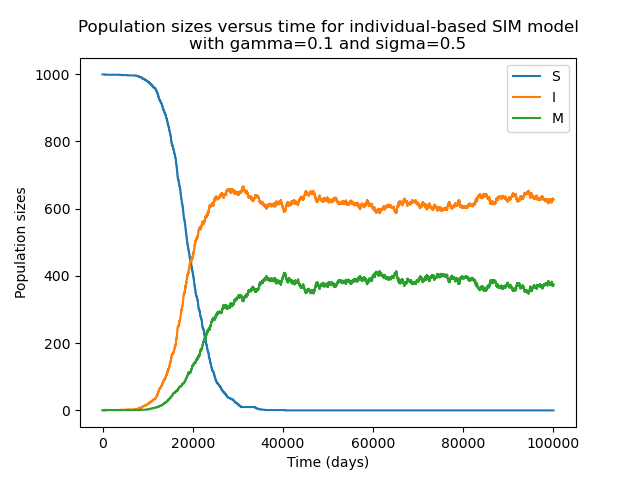
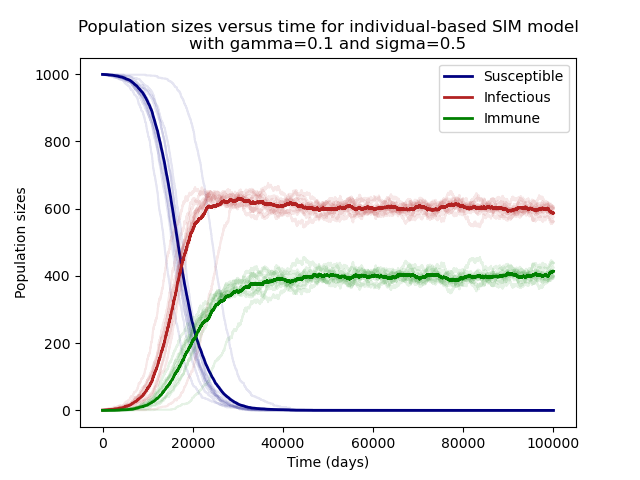
Modified to allow for repeated simulations

Changed region(s): [[0.1562, 0.125, 0.875, 0.875], [0.6875, 0.125, 0.875, 0.2812]]

diff --git a/individual_models/individual_simulations/individual_sim.py b/individual_models/individual_simulations/individual_sim.py
@@ -1,3 +1,4 @@
+import os
 import numpy as np
 import networkx as nx
 import matplotlib.pyplot as plt
@@ -10,7 +11,7 @@ immune = 'M'
 
 # Epidemiological Parameters
 gamma = 0.1
-sigma = 0
+sigma = 1
 
 
 ##### NETWORK INITIALISATION
@@ -123,7 +124,7 @@ def get_state_totals(G):
     return S_total, I_total, M_total
 
 
-def run_simulation(G, n_nodes, I0, sim_time, out_file_name):
+def run_simulation_iteration(G, n_nodes, I0, sim_time, out_file_name):
 
     # Creating a file to store the results to
     infection_outfile = open(out_file_name, 'w')
@@ -154,33 +155,117 @@ def run_simulation(G, n_nodes, I0, sim_time, out_file_name):
     infection_outfile.close()
 
 
+def repeat_simulation(N, I0, t_max, out_file_prefix, num_iterations=1):
+
+    # Repeating entire simulation required number of times
+    for n in range(num_iterations):
+
+        # Creating a new outfile name
+        current_file_name = out_file_prefix + '_%s.txt' % n
+
+        # Initialising the simulation
+        G = initialise_graph(n_nodes=N)
+        G = initialise_infections(G, n_nodes=N, n_infected=I0)
+
+        # Running the simulation
+        run_simulation_iteration(G, n_nodes=N, I0=I0, sim_time=t_max, out_file_name=current_file_name)
+
+
+##### ANALYSING AND DISPLAYING DATA
+
+def get_results_dataframe():
+
+    # Locating all data files within the directory
+    sim_data_files = [file for file in os.listdir(os.getcwd()) if file.startswith(out_file)]
+
+    # Creating a dataframe for each
+    dfs = [pd.read_csv(curr_file, delimiter=',', skiprows=1) for curr_file in sim_data_files]
+
+    # Looping through each dataframe
+    for counter, df in enumerate(dfs):
+
+        # Changing column names to match their origin file (i.e. 'column_name_number')
+        new_col_names = [df.columns[0]] + [col_name + '_%s' % counter for col_name in df.columns[1:]]
+        df.columns = new_col_names
+
+    # Creating a dataframe to store all resulting data in
+    results_df = pd.concat(dfs, axis=1)
+
+    # Only keeping the first timestep column
+    results_df = results_df.T.drop_duplicates().T
+
+    return results_df
+
+
+def get_state_dataframes(results_df):
+
+    # Extracting the state data
+    susceptible_df = results_df.filter(regex='S_total')
+    infected_df = results_df.filter(regex='I_total')
+    immune_df = results_df.filter(regex='M_total')
+
+    # Adding mean data
+    susceptible_df = susceptible_df.assign(S_total_mean=susceptible_df.mean(axis=1))
+    infected_df = infected_df.assign(I_total_mean=infected_df.mean(axis=1))
+    immune_df = immune_df.assign(M_total_mean=immune_df.mean(axis=1))
+
+    return susceptible_df, infected_df, immune_df
+
+
+def plot_state_totals(susceptible_df, infected_df, immune_df):
+
+    # Creating a list of the dataframes
+    all_state_dfs = susceptible_df, infected_df, immune_df
+
+    # Creating a list for legend labels and plot colors
+    labels = ['Susceptible', 'Infectious', 'Immune']
+    colors = ['navy', 'firebrick', 'g']
+
+    # Initialising a figure
+    fig, ax = plt.subplots()
+
+    # Looping through the remaining results
+    for counter, df in enumerate(all_state_dfs):
+
+        # Plotting the rough data with transparent lines
+        df[df.columns[:-1]].plot(ax=ax, alpha=0.1, color=colors[counter], legend=False)
+
+        # Plotting the mean data with a solid line
+        df[df.columns[-1]].plot(ax=ax, color=colors[counter], linewidth=2, label=labels[counter], legend=True)
+
+    # Adding plot titles and legend
+    plt.title('Population sizes versus time for individual-based SIM model\nwith gamma=%s and sigma=%s' % (gamma, sigma))
+    plt.xlabel('Time (days)')
+    plt.ylabel('Population sizes')
+    plt.show()
+
+
 ##### MAIN
 
 # Setting simulation data
 N = 1000
 I0 = 1
 t_max = 100000
-out_file = 'individual_sim_outfile.txt'
 
-# Initialising the simulation
-G = initialise_graph(n_nodes=N)
-G = initialise_infections(G, n_nodes=N, n_infected=I0)
+# Creating out file name to be used for storing and reading data
+out_file = 'individual_sim_outfile'
 
-# Running the simulation
-run_simulation(G, n_nodes=N, I0=I0, sim_time=t_max, out_file_name=out_file)
+# # Repeating the simulation
+repeat_simulation(N=N, I0=I0, t_max=t_max, out_file_prefix=out_file, num_iterations=1)
 
-# Importing transmission data
-df = pd.read_csv(out_file, delimiter=',', skiprows=1)
+# Analysing the data
+results_df = get_results_dataframe()
+susceptible_df, infected_df, immune_df = get_state_dataframes(results_df=results_df)
 
-# Plotting the results
-plt.title('Population totals versus time for individual SIM Model\n with gamma=%s and sigma=%s' % (gamma, sigma))
-plt.xlabel('Time (days)')
-plt.ylabel('Population sizes')
-plt.plot(df['timestep'], df['S_total'], label=susceptible)
-plt.plot(df['timestep'], df['I_total'], label=infected)
-plt.plot(df['timestep'], df['M_total'], label=immune)
-plt.legend()
-plt.show()
+# Plotting the data
+plot_state_totals(susceptible_df=susceptible_df, infected_df=infected_df, immune_df=immune_df)
+
+
+
+
+
+
+
 
 
 
